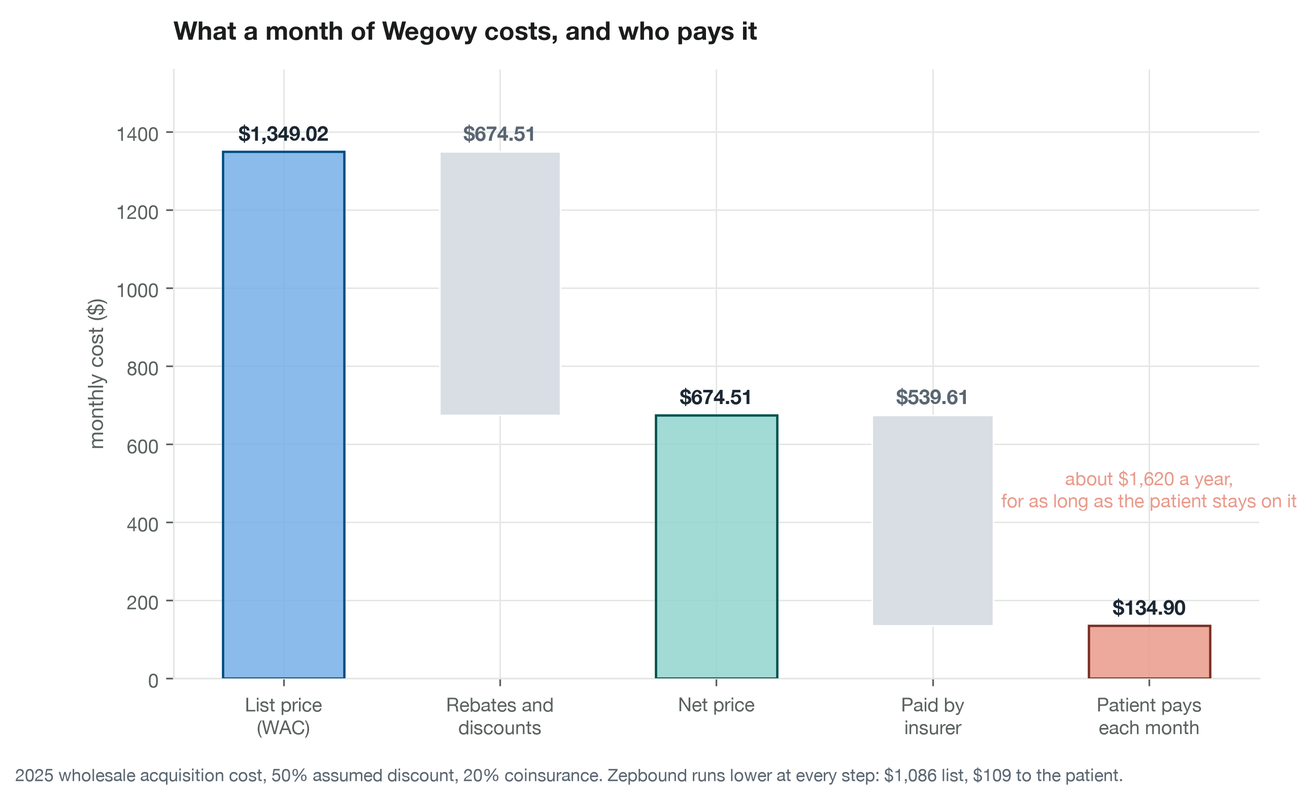
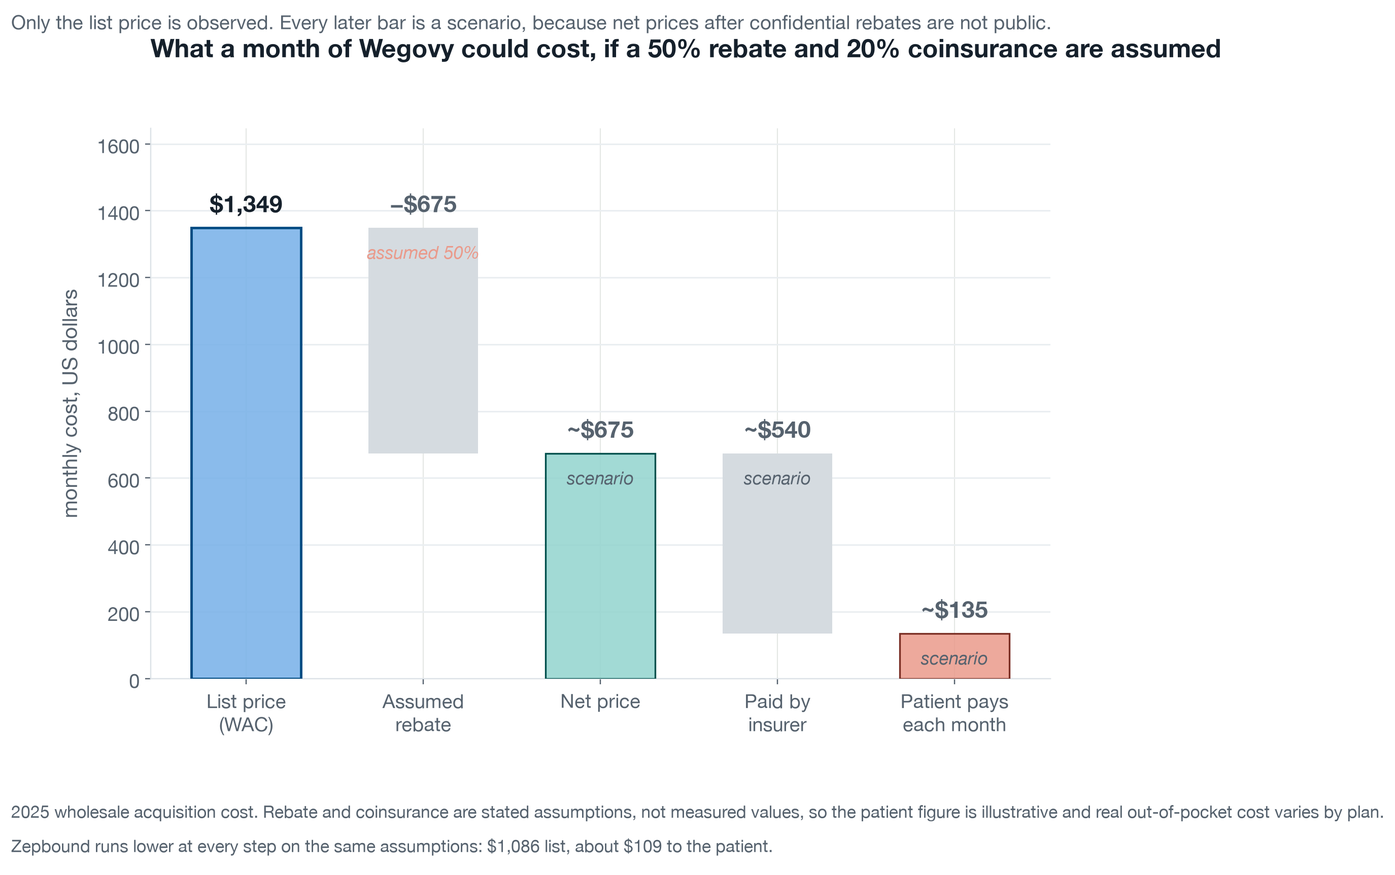
Say what the Wegovy numbers are, and add contact links
Open Payments records reportable payments and transfers of value, not a
detailing budget, so "physician spend shifted" and "a third of the detailing
budget" overstated what the records carry. Both now read as a change in the
reported payment mix, consistent with a shift toward cardiology rather than
proof of one.

The $135 patient cost is built from an assumed 50% rebate and assumed 20%
coinsurance. It was labelled only in the limitations while being stated flatly
in the findings and the figure. It is now marked a scenario everywhere it
appears, and the waterfall is redrawn: the list price is outlined as observed,
every later bar is labelled "scenario", the derived values are rounded rather
than printed to the cent, and the title states the assumptions.

Header gains LinkedIn and email beside GitHub and Hugging Face.

diff --git a/projects/wegovy-teardown.html b/projects/wegovy-teardown.html
@@ -13,7 +13,7 @@
 <body>
 <header class="top wrap">
   <a class="name" href="../index.html">Dom Martinelli</a>
-  <nav class="elsewhere"><a href="../gallery.html">Figures</a><a href="https://github.com/dom-martinelli">GitHub</a><a href="https://huggingface.co/dmartinelli">Hugging Face</a></nav>
+  <nav class="elsewhere"><a href="../gallery.html">Figures</a><a href="https://www.linkedin.com/in/dominic-d-martinelli">LinkedIn</a><a href="https://github.com/dom-martinelli">GitHub</a><a href="https://huggingface.co/dmartinelli">Hugging Face</a><a href="mailto:ddm94@cornell.edu">Email</a></nav>
 </header>
 
 <main class="wrap article">
@@ -23,16 +23,16 @@
   <dl class="spec"><div><dt>skills</dt><dd>competitive positioning · payer and pricing analysis · lifecycle and exclusivity mapping · reading a label as a commercial asset</dd></div><div><dt>tools</dt><dd><ul class="tags"><li>CMS Open Payments</li><li>FDA Orange Book</li><li>Medicare pricing files</li><li>matplotlib</li></ul></dd></div><div><dt>data</dt><dd>CMS Open Payments general payments, 2022 to 2024, three GLP-1 brands · FDA Orange Book patents and exclusivity for semaglutide · 2025 wholesale acquisition cost and Medicare pricing · SURMOUNT-5, SELECT and STEP 8 trial results</dd></div><div><dt>status</dt><dd><span class="status status-finished">finished</span></dd></div></dl>
   
   <div class="row"><div class="margin-note">question</div><div class="row-body"><p>Zepbound beats Wegovy on the headline endpoint and costs less. Wegovy grew anyway. What was Novo actually selling, and where did the money go?</p></div></div>
-  <div class="figs"><figure class="fig"><div class="panel"><a class="zoom" href="../assets/fig/wegovy/specialty-mix-slope.png"><img src="../assets/fig/wegovy/specialty-mix-slope.png" alt="the hero. Wegovy&#x27;s share of physician payment dollars by specialty, 2022 to 2024. endocrinology 66.6% to 33.8%, cardiovascular disease 5.3% to 28.7%. the SELECT cardiovascular indication landed in March 2024 and the detailing budget followed it." loading="lazy" decoding="async"></a></div><figcaption class="margin-note">the hero. Wegovy&#x27;s share of physician payment dollars by specialty, 2022 to 2024. endocrinology 66.6% to 33.8%, cardiovascular disease 5.3% to 28.7%. the SELECT cardiovascular indication landed in March 2024 and the detailing budget followed it.</figcaption></figure><figure class="fig"><div class="panel"><a class="zoom" href="../assets/fig/wegovy/payments-by-drug.png"><img src="../assets/fig/wegovy/payments-by-drug.png" alt="physician payments by brand. Novo raised Wegovy&#x27;s spend in the same year Zepbound scaled, and let Saxenda go from $4.42M to $0.13M. defence of the new molecule, abandonment of the old one." loading="lazy" decoding="async"></a></div><figcaption class="margin-note">physician payments by brand. Novo raised Wegovy&#x27;s spend in the same year Zepbound scaled, and let Saxenda go from $4.42M to $0.13M. defence of the new molecule, abandonment of the old one.</figcaption></figure><figure class="fig"><div class="panel"><a class="zoom" href="../assets/fig/wegovy/price-waterfall.png"><img src="../assets/fig/wegovy/price-waterfall.png" alt="a month of Wegovy from list price to what the patient pays. $1,349 list, $675 net on a 50% assumed discount, $135 to the patient at 20% coinsurance. Zepbound is lower at every step." loading="lazy" decoding="async"></a></div><figcaption class="margin-note">a month of Wegovy from list price to what the patient pays. $1,349 list, $675 net on a 50% assumed discount, $135 to the patient at 20% coinsurance. Zepbound is lower at every step.</figcaption></figure><figure class="fig"><div class="panel"><a class="zoom" href="../assets/fig/wegovy/positioning-map.png"><img src="../assets/fig/wegovy/positioning-map.png" alt="Zepbound wins the weight-loss comparison and costs less. Wegovy holds the premium on cardiovascular risk reduction and lean-mass preservation, the claims Zepbound&#x27;s label cannot make." loading="lazy" decoding="async"></a></div><figcaption class="margin-note">Zepbound wins the weight-loss comparison and costs less. Wegovy holds the premium on cardiovascular risk reduction and lean-mass preservation, the claims Zepbound&#x27;s label cannot make.</figcaption></figure><figure class="fig"><div class="panel"><a class="zoom" href="../assets/fig/wegovy/lifecycle-timeline.png"><img src="../assets/fig/wegovy/lifecycle-timeline.png" alt="filed March 2006, approved June 2021, expiring December 2031 after a 1,040-day Hatch-Waxman extension. about ten and a half years of selling, cut short again by Mylan&#x27;s 2025 Delaware win and its 180-day exclusivity." loading="lazy" decoding="async"></a></div><figcaption class="margin-note">filed March 2006, approved June 2021, expiring December 2031 after a 1,040-day Hatch-Waxman extension. about ten and a half years of selling, cut short again by Mylan&#x27;s 2025 Delaware win and its 180-day exclusivity.</figcaption></figure></div>
+  <div class="figs"><figure class="fig"><div class="panel"><a class="zoom" href="../assets/fig/wegovy/specialty-mix-slope.png"><img src="../assets/fig/wegovy/specialty-mix-slope.png" alt="the hero. Wegovy&#x27;s share of reportable physician payment dollars by specialty, 2022 to 2024. endocrinology 66.6% to 33.8%, cardiovascular disease 5.3% to 28.7%. the SELECT cardiovascular indication landed in March 2024 and the recorded payment mix moved with it." loading="lazy" decoding="async"></a></div><figcaption class="margin-note">the hero. Wegovy&#x27;s share of reportable physician payment dollars by specialty, 2022 to 2024. endocrinology 66.6% to 33.8%, cardiovascular disease 5.3% to 28.7%. the SELECT cardiovascular indication landed in March 2024 and the recorded payment mix moved with it.</figcaption></figure><figure class="fig"><div class="panel"><a class="zoom" href="../assets/fig/wegovy/payments-by-drug.png"><img src="../assets/fig/wegovy/payments-by-drug.png" alt="physician payments by brand. Novo raised Wegovy&#x27;s spend in the same year Zepbound scaled, and let Saxenda go from $4.42M to $0.13M. defence of the new molecule, abandonment of the old one." loading="lazy" decoding="async"></a></div><figcaption class="margin-note">physician payments by brand. Novo raised Wegovy&#x27;s spend in the same year Zepbound scaled, and let Saxenda go from $4.42M to $0.13M. defence of the new molecule, abandonment of the old one.</figcaption></figure><figure class="fig"><div class="panel"><a class="zoom" href="../assets/fig/wegovy/price-waterfall.png"><img src="../assets/fig/wegovy/price-waterfall.png" alt="an illustrative walk from list price to patient cost, not an observed one. $1,349 list, then $675 net on an assumed 50% rebate, then $135 to the patient on assumed 20% coinsurance. Zepbound is lower at every step. Confidential rebates mean the middle and final numbers are scenario, not measurement." loading="lazy" decoding="async"></a></div><figcaption class="margin-note">an illustrative walk from list price to patient cost, not an observed one. $1,349 list, then $675 net on an assumed 50% rebate, then $135 to the patient on assumed 20% coinsurance. Zepbound is lower at every step. Confidential rebates mean the middle and final numbers are scenario, not measurement.</figcaption></figure><figure class="fig"><div class="panel"><a class="zoom" href="../assets/fig/wegovy/positioning-map.png"><img src="../assets/fig/wegovy/positioning-map.png" alt="Zepbound wins the weight-loss comparison and costs less. Wegovy holds the premium on cardiovascular risk reduction and lean-mass preservation, the claims Zepbound&#x27;s label cannot make." loading="lazy" decoding="async"></a></div><figcaption class="margin-note">Zepbound wins the weight-loss comparison and costs less. Wegovy holds the premium on cardiovascular risk reduction and lean-mass preservation, the claims Zepbound&#x27;s label cannot make.</figcaption></figure><figure class="fig"><div class="panel"><a class="zoom" href="../assets/fig/wegovy/lifecycle-timeline.png"><img src="../assets/fig/wegovy/lifecycle-timeline.png" alt="filed March 2006, approved June 2021, expiring December 2031 after a 1,040-day Hatch-Waxman extension. about ten and a half years of selling, cut short again by Mylan&#x27;s 2025 Delaware win and its 180-day exclusivity." loading="lazy" decoding="async"></a></div><figcaption class="margin-note">filed March 2006, approved June 2021, expiring December 2031 after a 1,040-day Hatch-Waxman extension. about ten and a half years of selling, cut short again by Mylan&#x27;s 2025 Delaware win and its 180-day exclusivity.</figcaption></figure></div>
   <div class="row"><div class="margin-note">what i did</div><div class="row-body"><ul><li>pulled every Open Payments record for Wegovy, Zepbound and Saxenda across 2022 to 2024 and split it by recipient specialty, so the question became where the money moved, not how big the total was.</li><li>traced the composition-of-matter patent through the Orange Book, the Hatch-Waxman extension and the Paragraph IV challenge to get the real selling window rather than the nominal patent term.</li><li>built the price stack from list down to what the patient actually pays each month, for both brands.</li><li>read the three head-to-head trials against each label to work out which claims each brand is allowed to make.</li></ul></div></div>
   
   
-  <div class="row"><div class="margin-note">what came out</div><div class="row-body"><ul><li>Wegovy&#x27;s physician spend shifted from endocrinology to cardiology inside one year. Endocrinology fell from 66.6% of payment dollars to 33.8%; cardiovascular disease rose from 5.3% to 28.7%, with interventional cardiology taking another 8.4%. The SELECT indication landed in March 2024.</li><li>Novo raised its spend instead of ceding the ground. Wegovy&#x27;s physician spend went from $0.29M to $4.54M to $6.86M across 2022 to 2024, still climbing in the year Zepbound scaled to $4.84M.</li><li>Saxenda was left to decline. Its spend collapsed from $4.42M to $0.13M as Novo moved behind the newer molecule.</li><li>Wegovy costs more and works less on the headline number: $1,349 list against Zepbound&#x27;s $1,086, and 15 kg of weight loss at 72 weeks against 22.8 kg. The premium is not buying weight loss.</li><li>the patient pays about $135 a month, roughly $1,620 a year, for as long as they stay on it, and both labels imply that is indefinitely.</li><li>fifteen years ran between filing and approval. A 1,040-day Hatch-Waxman extension pushes expiry to December 2031, leaving about ten and a half years of selling, and Mylan&#x27;s 2025 Delaware win shortens it again.</li></ul></div></div>
-  <div class="row"><div class="margin-note">calls made</div><div class="row-body"><ul><li>specialty share of payment dollars rather than payment counts. Counts are dominated by food and beverage items, which run about 97% of all records and say nothing about where the strategy went.</li><li>effective patent life measured from approval, not from filing, because the filing-to-approval gap is the part a commercial reader cannot get back.</li><li>list, net and patient-pay shown as one stack, since the gap between them is the actual negotiation and a single price hides it.</li><li>the positioning map is qualitative on both axes. The trade between the two brands is real; precise distances on a drawn chart would not be.</li></ul></div></div>
+  <div class="row"><div class="margin-note">what came out</div><div class="row-body"><ul><li>Wegovy&#x27;s recorded physician payments moved from endocrinology to cardiology inside one year. Endocrinology fell from 66.6% of payment dollars to 33.8%; cardiovascular disease rose from 5.3% to 28.7%, with interventional cardiology taking another 8.4%. The SELECT indication landed in March 2024. Open Payments records payments and transfers of value, so this is the promotional spend that must be reported, not the whole detailing budget, and the pattern is consistent with a shift toward cardiology rather than proof of one.</li><li>Novo raised its spend instead of ceding the ground. Wegovy&#x27;s physician spend went from $0.29M to $4.54M to $6.86M across 2022 to 2024, still climbing in the year Zepbound scaled to $4.84M.</li><li>Saxenda was left to decline. Its spend collapsed from $4.42M to $0.13M as Novo moved behind the newer molecule.</li><li>Wegovy costs more and works less on the headline number: $1,349 list against Zepbound&#x27;s $1,086, and 15 kg of weight loss at 72 weeks against 22.8 kg. The premium is not buying weight loss.</li><li>an illustrative patient cost, built from assumptions rather than measured: about $135 a month, roughly $1,620 a year, if a 50% rebate and 20% coinsurance are assumed. Both labels imply the patient stays on the drug indefinitely, so the annual figure recurs. Real net prices are confidential and the true out-of-pocket cost varies by plan.</li><li>fifteen years ran between filing and approval. A 1,040-day Hatch-Waxman extension pushes expiry to December 2031, leaving about ten and a half years of selling, and Mylan&#x27;s 2025 Delaware win shortens it again.</li></ul></div></div>
+  <div class="row"><div class="margin-note">calls made</div><div class="row-body"><ul><li>specialty share of payment dollars rather than payment counts. Counts are dominated by food and beverage items, which run about 97% of all records and say nothing about where the strategy went.</li><li>effective patent life measured from approval, not from filing, because the filing-to-approval gap is the part a commercial reader cannot get back.</li><li>list, net and patient-pay shown as one stack, since the gap between them is the actual negotiation and a single price hides it.</li><li>the positioning map is qualitative on both axes. The trade between the two brands is real; precise distances on a drawn chart would not be.</li><li>reporting the payment mix as a share rather than naming it a detailing budget. the share is what the records support; the budget is inferred and would not survive a reader who knows what Open Payments collects.</li></ul></div></div>
   
   
-  <div class="row"><div class="margin-note">so what</div><div class="row-body"><ul><li>a label expansion is a salesforce retargeting event. The SELECT indication moved roughly a third of the detailing budget into a specialty that had been a rounding error two years earlier. Anyone modelling the return on an outcomes trial should be costing the channel shift, not only the script lift.</li><li>being second on efficacy is survivable if you own a claim the other brand cannot make. Wegovy holds a price premium while losing the weight-loss comparison, because cardiovascular risk reduction is the only claim a cardiologist can act on.</li><li>the spending pattern shows the defence. An incumbent that raises physician investment in the year a superior rival scales is buying time on the exclusivity clock, and that clock is about ten years, not twenty.</li><li>chronic dosing with no defined endpoint turns a monthly copay into an adherence problem. The commercial risk here is discontinuation.</li></ul></div></div>
-  <div class="row"><div class="margin-note">not shown</div><div class="row-body"><ul><li>net prices after confidential rebates are not public; the discount here is a stated assumption, not an observed figure</li><li>coursework from PUBPOL 3110, Fall 2025, built from public sources only</li></ul></div></div>
+  <div class="row"><div class="margin-note">so what</div><div class="row-body"><ul><li>a label expansion looks like a salesforce retargeting event. Roughly a third of Wegovy&#x27;s reportable payment dollars moved into a specialty that had been a rounding error two years earlier. Anyone modelling the return on an outcomes trial should be costing the channel shift, not only the script lift. What the data can carry is the change in reported payments; the budget behind it is not public.</li><li>being second on efficacy is survivable if you own a claim the other brand cannot make. Wegovy holds a price premium while losing the weight-loss comparison, because cardiovascular risk reduction is the only claim a cardiologist can act on.</li><li>the spending pattern shows the defence. An incumbent that raises physician investment in the year a superior rival scales is buying time on the exclusivity clock, and that clock is about ten years, not twenty.</li><li>chronic dosing with no defined endpoint turns a monthly copay into an adherence problem. The commercial risk here is discontinuation.</li></ul></div></div>
+  <div class="row"><div class="margin-note">not shown</div><div class="row-body"><ul><li>coursework from PUBPOL 3110, Fall 2025, built from public sources only</li><li>net prices after confidential rebates are not public. the 50% rebate and 20% coinsurance behind the $135 are stated assumptions, so that number is a scenario and is labelled as one wherever it appears</li><li>Open Payments captures reportable payments and transfers of value, not total promotional or salesforce spend, so a change in its mix is evidence of redirection and not a measurement of a budget</li></ul></div></div>
 </main>
 <footer class="wrap foot">figures made with matplotlib and deck.gl · site built from json by build.py</footer>
 </body>

diff --git a/index.html b/index.html
@@ -13,7 +13,7 @@
 <body>
 <header class="top wrap">
   <a class="name" href="index.html">Dom Martinelli</a>
-  <nav class="elsewhere"><a href="gallery.html">Figures</a><a href="https://github.com/dom-martinelli">GitHub</a><a href="https://huggingface.co/dmartinelli">Hugging Face</a></nav>
+  <nav class="elsewhere"><a href="gallery.html">Figures</a><a href="https://www.linkedin.com/in/dominic-d-martinelli">LinkedIn</a><a href="https://github.com/dom-martinelli">GitHub</a><a href="https://huggingface.co/dmartinelli">Hugging Face</a><a href="mailto:ddm94@cornell.edu">Email</a></nav>
 </header>
 
 <main class="wrap">
@@ -46,7 +46,7 @@
     <ul class="tags"><li>Python</li><li>DSPy</li><li>Hugging Face datasets</li><li>OpenRouter</li></ul>
   </div>
 </a><a class="tile" href="projects/wegovy-teardown.html">
-  <div class="panel"><img src="assets/thumb/assets/fig/wegovy/specialty-mix-slope.webp" alt="the hero. Wegovy&#x27;s share of physician payment dollars by specialty, 2022 to 2024. endocrinology 66.6% to 33.8%, cardiovascular disease 5.3% to 28.7%. the SELECT cardiovascular indication landed in March 2024 and the detailing budget followed it." loading="lazy" decoding="async"></div>
+  <div class="panel"><img src="assets/thumb/assets/fig/wegovy/specialty-mix-slope.webp" alt="the hero. Wegovy&#x27;s share of reportable physician payment dollars by specialty, 2022 to 2024. endocrinology 66.6% to 33.8%, cardiovascular disease 5.3% to 28.7%. the SELECT cardiovascular indication landed in March 2024 and the recorded payment mix moved with it." loading="lazy" decoding="async"></div>
   <div class="tile-body">
     <div class="tile-top"><h3>Wegovy vs. Zepbound: a commercial teardown</h3><span class="status status-finished">finished</span></div>
     <p class="skills">competitive positioning · payer and pricing analysis · lifecycle and exclusivity mapping · reading a label as a commercial asset</p>

diff --git a/gallery.html b/gallery.html
@@ -13,7 +13,7 @@
 <body>
 <header class="top wrap">
   <a class="name" href="index.html">Dom Martinelli</a>
-  <nav class="elsewhere"><a href="gallery.html">Figures</a><a href="https://github.com/dom-martinelli">GitHub</a><a href="https://huggingface.co/dmartinelli">Hugging Face</a></nav>
+  <nav class="elsewhere"><a href="gallery.html">Figures</a><a href="https://www.linkedin.com/in/dominic-d-martinelli">LinkedIn</a><a href="https://github.com/dom-martinelli">GitHub</a><a href="https://huggingface.co/dmartinelli">Hugging Face</a><a href="mailto:ddm94@cornell.edu">Email</a></nav>
 </header>
 
 <main class="wrap article" style="max-width:1120px">

diff --git a/projects/evidence-lag.html b/projects/evidence-lag.html
@@ -13,7 +13,7 @@
 <body>
 <header class="top wrap">
   <a class="name" href="../index.html">Dom Martinelli</a>
-  <nav class="elsewhere"><a href="../gallery.html">Figures</a><a href="https://github.com/dom-martinelli">GitHub</a><a href="https://huggingface.co/dmartinelli">Hugging Face</a></nav>
+  <nav class="elsewhere"><a href="../gallery.html">Figures</a><a href="https://www.linkedin.com/in/dominic-d-martinelli">LinkedIn</a><a href="https://github.com/dom-martinelli">GitHub</a><a href="https://huggingface.co/dmartinelli">Hugging Face</a><a href="mailto:ddm94@cornell.edu">Email</a></nav>
 </header>
 
 <main class="wrap article">

diff --git a/projects/fda-ai-devices.html b/projects/fda-ai-devices.html
@@ -13,7 +13,7 @@
 <body>
 <header class="top wrap">
   <a class="name" href="../index.html">Dom Martinelli</a>
-  <nav class="elsewhere"><a href="../gallery.html">Figures</a><a href="https://github.com/dom-martinelli">GitHub</a><a href="https://huggingface.co/dmartinelli">Hugging Face</a></nav>
+  <nav class="elsewhere"><a href="../gallery.html">Figures</a><a href="https://www.linkedin.com/in/dominic-d-martinelli">LinkedIn</a><a href="https://github.com/dom-martinelli">GitHub</a><a href="https://huggingface.co/dmartinelli">Hugging Face</a><a href="mailto:ddm94@cornell.edu">Email</a></nav>
 </header>
 
 <main class="wrap article">

diff --git a/projects/growth-medqa-explorer.html b/projects/growth-medqa-explorer.html
@@ -13,7 +13,7 @@
 <body>
 <header class="top wrap">
   <a class="name" href="../index.html">Dom Martinelli</a>
-  <nav class="elsewhere"><a href="../gallery.html">Figures</a><a href="https://github.com/dom-martinelli">GitHub</a><a href="https://huggingface.co/dmartinelli">Hugging Face</a></nav>
+  <nav class="elsewhere"><a href="../gallery.html">Figures</a><a href="https://www.linkedin.com/in/dominic-d-martinelli">LinkedIn</a><a href="https://github.com/dom-martinelli">GitHub</a><a href="https://huggingface.co/dmartinelli">Hugging Face</a><a href="mailto:ddm94@cornell.edu">Email</a></nav>
 </header>
 
 <main class="wrap article">

diff --git a/projects/growth-medqa.html b/projects/growth-medqa.html
@@ -13,7 +13,7 @@
 <body>
 <header class="top wrap">
   <a class="name" href="../index.html">Dom Martinelli</a>
-  <nav class="elsewhere"><a href="../gallery.html">Figures</a><a href="https://github.com/dom-martinelli">GitHub</a><a href="https://huggingface.co/dmartinelli">Hugging Face</a></nav>
+  <nav class="elsewhere"><a href="../gallery.html">Figures</a><a href="https://www.linkedin.com/in/dominic-d-martinelli">LinkedIn</a><a href="https://github.com/dom-martinelli">GitHub</a><a href="https://huggingface.co/dmartinelli">Hugging Face</a><a href="mailto:ddm94@cornell.edu">Email</a></nav>
 </header>
 
 <main class="wrap article">

diff --git a/projects/growthradar-lite.html b/projects/growthradar-lite.html
@@ -13,7 +13,7 @@
 <body>
 <header class="top wrap">
   <a class="name" href="../index.html">Dom Martinelli</a>
-  <nav class="elsewhere"><a href="../gallery.html">Figures</a><a href="https://github.com/dom-martinelli">GitHub</a><a href="https://huggingface.co/dmartinelli">Hugging Face</a></nav>
+  <nav class="elsewhere"><a href="../gallery.html">Figures</a><a href="https://www.linkedin.com/in/dominic-d-martinelli">LinkedIn</a><a href="https://github.com/dom-martinelli">GitHub</a><a href="https://huggingface.co/dmartinelli">Hugging Face</a><a href="mailto:ddm94@cornell.edu">Email</a></nav>
 </header>
 
 <main class="wrap article">

diff --git a/projects/icd-index.html b/projects/icd-index.html
@@ -13,7 +13,7 @@
 <body>
 <header class="top wrap">
   <a class="name" href="../index.html">Dom Martinelli</a>
-  <nav class="elsewhere"><a href="../gallery.html">Figures</a><a href="https://github.com/dom-martinelli">GitHub</a><a href="https://huggingface.co/dmartinelli">Hugging Face</a></nav>
+  <nav class="elsewhere"><a href="../gallery.html">Figures</a><a href="https://www.linkedin.com/in/dominic-d-martinelli">LinkedIn</a><a href="https://github.com/dom-martinelli">GitHub</a><a href="https://huggingface.co/dmartinelli">Hugging Face</a><a href="mailto:ddm94@cornell.edu">Email</a></nav>
 </header>
 
 <main class="wrap article">

diff --git a/projects/over-referral.html b/projects/over-referral.html
@@ -13,7 +13,7 @@
 <body>
 <header class="top wrap">
   <a class="name" href="../index.html">Dom Martinelli</a>
-  <nav class="elsewhere"><a href="../gallery.html">Figures</a><a href="https://github.com/dom-martinelli">GitHub</a><a href="https://huggingface.co/dmartinelli">Hugging Face</a></nav>
+  <nav class="elsewhere"><a href="../gallery.html">Figures</a><a href="https://www.linkedin.com/in/dominic-d-martinelli">LinkedIn</a><a href="https://github.com/dom-martinelli">GitHub</a><a href="https://huggingface.co/dmartinelli">Hugging Face</a><a href="mailto:ddm94@cornell.edu">Email</a></nav>
 </header>
 
 <main class="wrap article">

diff --git a/projects/patient-flows.html b/projects/patient-flows.html
@@ -13,7 +13,7 @@
 <body>
 <header class="top wrap">
   <a class="name" href="../index.html">Dom Martinelli</a>
-  <nav class="elsewhere"><a href="../gallery.html">Figures</a><a href="https://github.com/dom-martinelli">GitHub</a><a href="https://huggingface.co/dmartinelli">Hugging Face</a></nav>
+  <nav class="elsewhere"><a href="../gallery.html">Figures</a><a href="https://www.linkedin.com/in/dominic-d-martinelli">LinkedIn</a><a href="https://github.com/dom-martinelli">GitHub</a><a href="https://huggingface.co/dmartinelli">Hugging Face</a><a href="mailto:ddm94@cornell.edu">Email</a></nav>
 </header>
 
 <main class="wrap article">

diff --git a/projects/patient-innovation-index.html b/projects/patient-innovation-index.html
@@ -13,7 +13,7 @@
 <body>
 <header class="top wrap">
   <a class="name" href="../index.html">Dom Martinelli</a>
-  <nav class="elsewhere"><a href="../gallery.html">Figures</a><a href="https://github.com/dom-martinelli">GitHub</a><a href="https://huggingface.co/dmartinelli">Hugging Face</a></nav>
+  <nav class="elsewhere"><a href="../gallery.html">Figures</a><a href="https://www.linkedin.com/in/dominic-d-martinelli">LinkedIn</a><a href="https://github.com/dom-martinelli">GitHub</a><a href="https://huggingface.co/dmartinelli">Hugging Face</a><a href="mailto:ddm94@cornell.edu">Email</a></nav>
 </header>
 
 <main class="wrap article">
